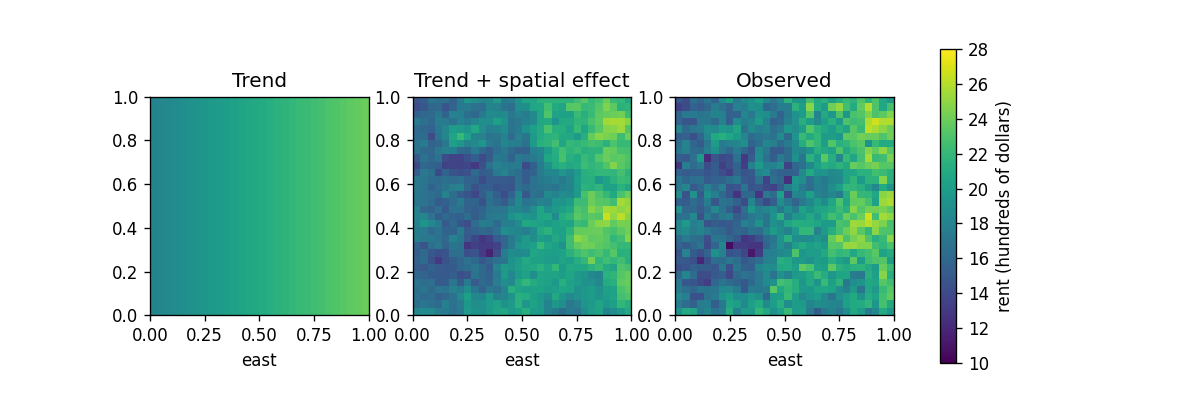
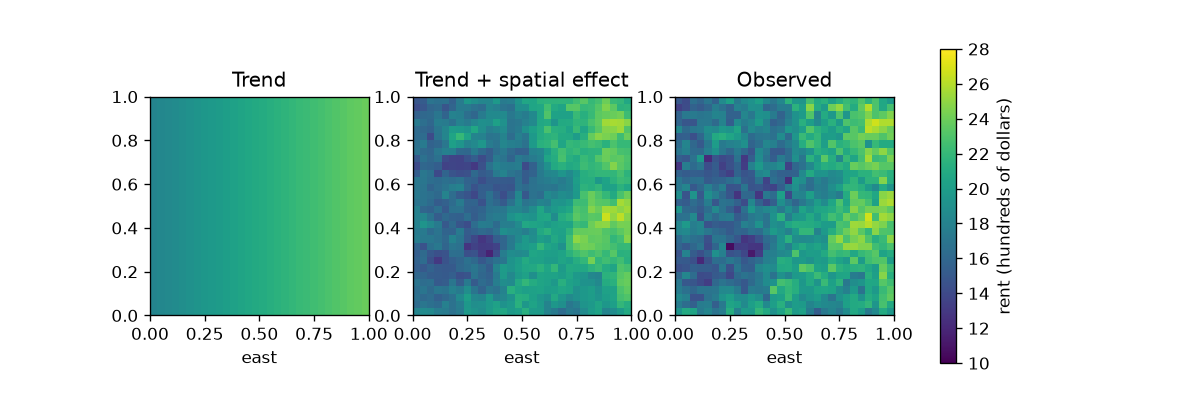
chapter reviewed -- passed

diff --git a/spatial-data-analysis/current/chapters/ch02_spatial_linear_model.md b/spatial-data-analysis/current/chapters/ch02_spatial_linear_model.md
@@ -457,7 +457,7 @@ $$
 h_{ij}(\mathbf{G}) = \sqrt{(\mathbf{s}_i - \mathbf{s}_j)'\mathbf{G}(\mathbf{s}_i - \mathbf{s}_j)}
 $$
 
-and use it in place of ordinary distance in any correlation function. With $\mathbf{G} = \mathbf{I}_2$ this is ordinary distance. With $\mathbf{G} = \operatorname{diag}(1, 4)$, a north-south separation counts double, so correlation decays twice as fast in that direction. This is **geometric anisotropy**: the contours of equal correlation are ellipses instead of circles.
+and use it in place of ordinary distance in any correlation function. With $\mathbf{G} = \mathbf{I}_2$ this is ordinary distance. With $\mathbf{G} = \operatorname{diag}(1, 4)$, a north-south separation counts double, so correlation decays twice as fast in that direction. Notice the inverse relationship between the distance metric and correlation reach: stretching distance in a given direction (a larger eigenvalue in $\mathbf{G}$) makes correlation decay faster and reach shorter. The direction of longest correlation reach corresponds to the smallest eigenvalue of $\mathbf{G}$. This is **geometric anisotropy**: the contours of equal correlation are ellipses instead of circles.
 
 ```python
 def dist_aniso(S, G):
@@ -685,17 +685,27 @@ Figure 2.2 compares an exponential transect ($\phi = 0.1$, practical range about
 
 8. Compute the Cholesky factor of the $3 \times 3$ matrix $\boldsymbol{\Sigma}$ in Section 2.1.4 by hand, using the column-by-column formulas of Section 2.7.1. Check your answer with `np.linalg.cholesky`.
 
-9. A river runs at 30 degrees north of east, and correlation along the river reaches three times as far as correlation across it. Write down $\mathbf{G}$ as $\mathbf{U}\boldsymbol{\Lambda}\mathbf{U}'$ with $\mathbf{U}$ a rotation matrix, and compute the anisotropic distance between $(0, 0)$ and $(1, 0)$.
+9. A river runs at 30 degrees north of east, and correlation along the river reaches three times as far as correlation across it. Write down $\mathbf{G}$ as $\mathbf{U}\boldsymbol{\Lambda}\mathbf{U}'$ with $\mathbf{U}$ a rotation matrix, and compute the anisotropic distance between $(0, 0)$ and $(1, 0)$. (Hint: Remember the inverse relationship between correlation reach and distance metrics. If correlation along the river reaches three times as far, effective distances along the river must be scaled down by a factor of 3 relative to the cross-river direction, so the eigenvalue for the along-river eigenvector is $(1/3)^2 = 1/9$ relative to the cross-river eigenvalue.)
+
+10. Section 2.2.3 defined intrinsic stationarity through the variance of pairwise differences $2\gamma(\mathbf{h})$. Consider an arbitrary linear contrast $\sum_{i=1}^n a_i Y(\mathbf{s}_i)$ where the coefficients sum to zero: $\sum_{i=1}^n a_i = 0$. (a) Show that $\sum_{i=1}^n a_i Y(\mathbf{s}_i) = -\frac{1}{2}\sum_{i=1}^n \sum_{j=1}^n a_i a_j [Y(\mathbf{s}_i) - Y(\mathbf{s}_j)]$. (b) Using the definition $\operatorname{Var}(Y(\mathbf{s}_i) - Y(\mathbf{s}_j)) = 2\gamma(\mathbf{s}_i - \mathbf{s}_j)$, show that $\operatorname{Var}\!\left(\sum_{i=1}^n a_i Y(\mathbf{s}_i)\right) = -\sum_{i=1}^n \sum_{j=1}^n a_i a_j \gamma(\mathbf{s}_i - \mathbf{s}_j)$. (c) Explain why this implies that the semivariogram matrix $\boldsymbol{\Gamma}$ with entries $\Gamma_{ij} = \gamma(\mathbf{s}_i - \mathbf{s}_j)$ is conditionally negative definite: $\mathbf{a}'\boldsymbol{\Gamma}\mathbf{a} \le 0$ for all $\mathbf{a}$ satisfying $\mathbf{a}'\mathbf{1}_n = 0$.
+
+11. Section 2.4.4 noted that valid covariance functions correspond to positive spectral densities via Fourier transforms (Bochner's theorem). On the real line $\mathbb{R}$, the spectral density is $f(\omega) = \frac{1}{2\pi}\int_{-\infty}^\infty C(h)e^{-i\omega h}\,dh$. (a) For the exponential covariance $C(h) = \sigma^2 e^{-\lvert h \rvert/\phi}$, use symmetry to show that $f(\omega) = \frac{\sigma^2}{\pi}\int_0^\infty e^{-h/\phi}\cos(\omega h)\,dh = \frac{\sigma^2\phi}{\pi(1 + \phi^2\omega^2)}$. (b) Explain why $f(\omega) > 0$ for all $\omega \in \mathbb{R}$ confirms that the exponential model is valid on the line. (c) For the step function of Section 2.4.2 ($C(h) = 1$ for $\lvert h \rvert < 1$ and $0$ beyond), show that its Fourier transform is proportional to $\sin(\omega)/\omega$, which takes negative values, and explain how this connects to the negative eigenvalues found in Section 2.4.2.
+
+12. Section 2.6 defined the anisotropic distance metric $h_{ij}^2(\mathbf{G}) = (\mathbf{s}_i - \mathbf{s}_j)'\mathbf{G}(\mathbf{s}_i - \mathbf{s}_j)$. Suppose we rotate the coordinate system by an orthogonal matrix $\mathbf{Q}$ ($\mathbf{Q}'\mathbf{Q} = \mathbf{I}_2$), so that locations become $\tilde{\mathbf{s}}_i = \mathbf{Q}\mathbf{s}_i$, and the metric tensor transforms as $\widetilde{\mathbf{G}} = \mathbf{Q}\mathbf{G}\mathbf{Q}'$. (a) Show that the pairwise distance between any two locations is identical in both coordinate systems: $h_{ij}(\widetilde{\mathbf{G}}) = h_{ij}(\mathbf{G})$. (b) Explain why this ensures that the spatial covariance between any two physical locations is invariant to the choice of map coordinate orientation.
+
+13. Section 2.4.3 proved that if $C_1(h)$ and $C_2(h)$ are valid covariance functions, their product $C_1(h)C_2(h)$ is also valid. In matrix algebra, this is the Schur product theorem: if $\boldsymbol{\Sigma}_1$ and $\boldsymbol{\Sigma}_2$ are positive semi-definite $n \times n$ matrices, their elementwise product $\boldsymbol{\Sigma}_1 \circ \boldsymbol{\Sigma}_2$ with entries $[\boldsymbol{\Sigma}_1 \circ \boldsymbol{\Sigma}_2]_{ij} = \Sigma_{1,ij}\Sigma_{2,ij}$ is also positive semi-definite. (a) Write the spectral decompositions $\boldsymbol{\Sigma}_1 = \sum_{k=1}^n \lambda_k \mathbf{v}_k\mathbf{v}_k'$ and $\boldsymbol{\Sigma}_2 = \sum_{l=1}^n \mu_l \mathbf{w}_l\mathbf{w}_l'$. (b) Show that $\boldsymbol{\Sigma}_1 \circ \boldsymbol{\Sigma}_2 = \sum_{k=1}^n \sum_{l=1}^n \lambda_k \mu_l (\mathbf{v}_k \circ \mathbf{w}_l)(\mathbf{v}_k \circ \mathbf{w}_l)'$. (c) For any vector $\mathbf{a}$, show that $\mathbf{a}'(\boldsymbol{\Sigma}_1 \circ \boldsymbol{\Sigma}_2)\mathbf{a} \ge 0$, giving an algebraic proof that elementwise products of covariance matrices are valid.
+
+14. Section 2.1.3 explained that the nugget $\tau^2$ absorbs both measurement error $\tau_{\text{meas}}^2$ and micro-scale spatial variation $\sigma_{\text{micro}}^2$ with range $\phi_{\text{micro}} \ll \min_{i \ne j} h_{ij}$. Suppose the true covariance is $C(h) = \sigma^2 e^{-h/\phi} + \sigma_{\text{micro}}^2 e^{-h/\phi_{\text{micro}}} + \tau_{\text{meas}}^2 \mathbb{1}(h = 0)$. (a) If the minimum sampling distance between distinct observations is $h_{\min} > 0$, and $\phi_{\text{micro}} \le h_{\min}/10$, show that $e^{-h_{ij}/\phi_{\text{micro}}} < 5 \times 10^{-5}$ for all pairs $i \ne j$. (b) Explain why the covariance matrix $\boldsymbol{\Sigma}$ of the sample is numerically indistinguishable from a model with a single nugget $\tau^2 = \sigma_{\text{micro}}^2 + \tau_{\text{meas}}^2$. (c) What sampling design would allow an analyst to separate $\sigma_{\text{micro}}^2$ from $\tau_{\text{meas}}^2$?
 
 **Computational and simulation**
 
-10. Simulate 500 rent districts as in Section 2.8.2, recording the average of $\mathbf{u}$ over each. Compare the standard deviation of these averages with the theoretical value $\sqrt{\mathbf{1}'\sigma^2\mathbf{R}\mathbf{1}}/n$ from Chapter 1, and compute the effective sample size of the district.
+15. Simulate 500 rent districts as in Section 2.8.2, recording the average of $\mathbf{u}$ over each. Compare the standard deviation of these averages with the theoretical value $\sqrt{\mathbf{1}'\sigma^2\mathbf{R}\mathbf{1}}/n$ from Chapter 1, and compute the effective sample size of the district.
 
-11. Time `np.linalg.cholesky` and `np.linalg.eigh` on exponential covariance matrices for grids of 500, 1,000, and 2,000 locations. How does the ratio of their times change with $n$?
+16. Time `np.linalg.cholesky` and `np.linalg.eigh` on exponential covariance matrices for grids of 500, 1,000, and 2,000 locations. How does the ratio of their times change with $n$?
 
-12. Find the smallest square grid (number of points per side and spacing) on which the tent function of Section 2.4.4 produces a negative eigenvalue. Try spacings between 0.2 and 1.0.
+17. Find the smallest square grid (number of points per side and spacing) on which the tent function of Section 2.4.4 produces a negative eigenvalue. Try spacings between 0.2 and 1.0.
 
-13. For the $20 \times 20$ grid of Section 2.5.1, compute the condition number of $\sigma^2\mathbf{R} + \tau^2\mathbf{I}$ for the Gaussian model with $\sigma^2 = 1$ and $\tau^2 = 10^{-6}$, $10^{-3}$, and $10^{-1}$. Then repeat with the Matérn model with $\nu = 5/2$ and the same practical range. Which model needs less nugget to be numerically safe?
+18. For the $20 \times 20$ grid of Section 2.5.1, compute the condition number of $\sigma^2\mathbf{R} + \tau^2\mathbf{I}$ for the Gaussian model with $\sigma^2 = 1$ and $\tau^2 = 10^{-6}$, $10^{-3}$, and $10^{-1}$. Then repeat with the Matérn model with $\nu = 5/2$ and the same practical range. Which model needs less nugget to be numerically safe?
 
 ---
 
